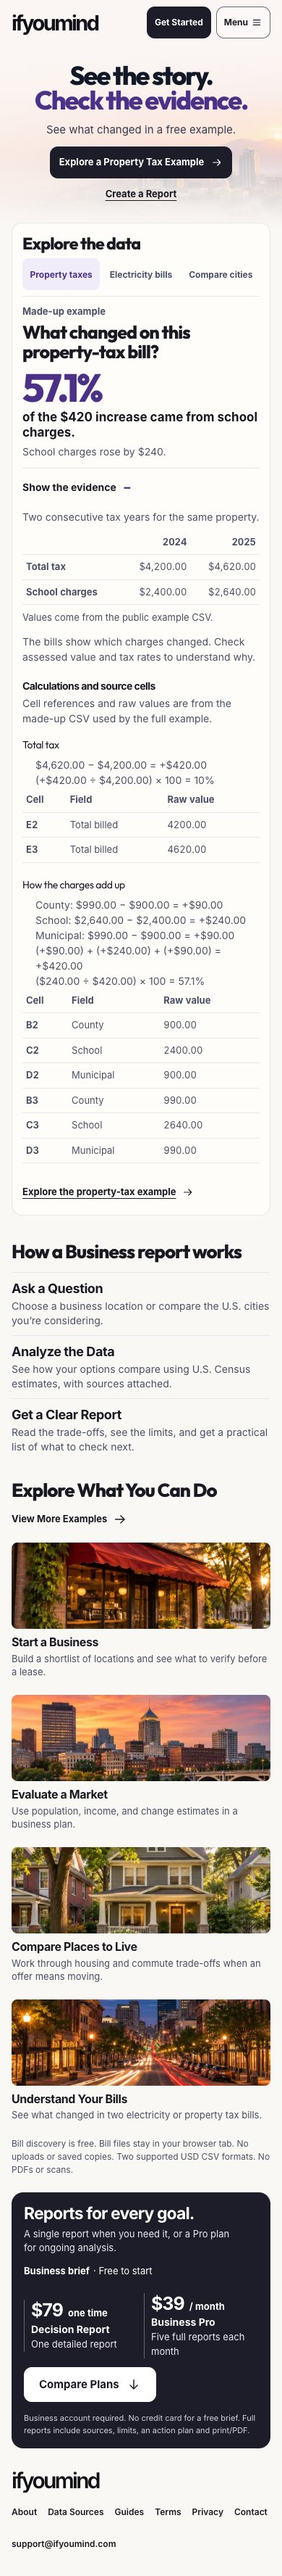
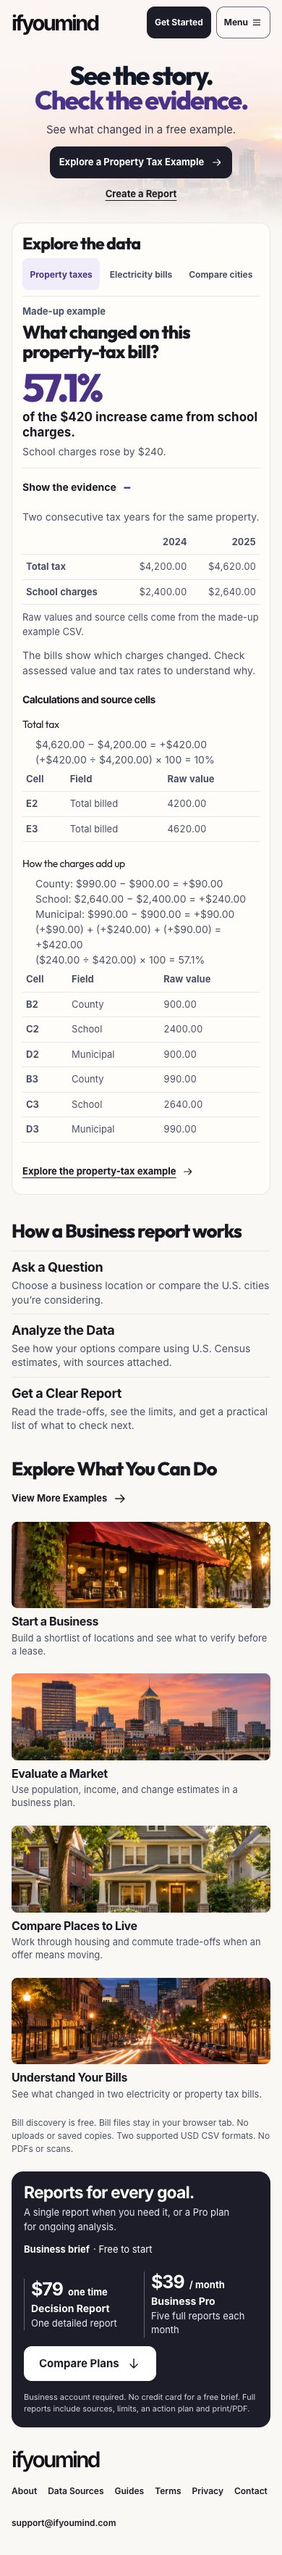
Keep one action in the default tax preview

diff --git a/src/app/intelligence/public-landing.component.html b/src/app/intelligence/public-landing.component.html
@@ -99,9 +99,9 @@
               </table>
               <p id="data-sources" class="source-note">
                 @if (example.id === 'cities') {
-                  <a href="https://www.census.gov/data/developers/data-sets/acs-5year.html">U.S. Census ACS</a> city-level estimates, 2020–2024. Population change compares 2015–2019 with 2020–2024. Differences may fall within survey margins of error.
+                  <a href="https://www.census.gov/data/developers/data-sets/acs-5year.html">U.S. Census ACS</a> city-level estimates, 2020–2024. Population change compares 2015–2019 with 2020–2024. Differences have not been tested for statistical significance and may fall within survey margins of error.
                 } @else {
-                  Values come from the public example CSV.
+                  Raw values and source cells come from the made-up example CSV.
                 }
               </p>
             </div>
@@ -113,14 +113,12 @@
                 <li>Median household income: $93,658 − $82,068 = $11,590.</li>
                 <li>Population change: 5.4% − 3.0% = 2.4 percentage points.</li>
               </ul>
-              <p>Population change compares two ACS five-year estimates, 2015–2019 and 2020–2024. The displayed differences have not been tested for statistical significance.</p>
               <div class="evidence-links">
                 <a href="https://api.census.gov/data/2024/acs/acs5/groups/B01003.html">Population table (B01003)</a>
                 <a href="https://api.census.gov/data/2024/acs/acs5/groups/B19013.html">Income table (B19013)</a>
               </div>
             } @else {
               <h3>Calculations and source cells</h3>
-              <p>Cell references and raw values are from the made-up CSV used by the full example.</p>
               <div class="evidence-groups">
                 @for (group of example.proof; track group.label) {
                   <div>
@@ -146,7 +144,7 @@
         @if (example.id === 'cities') {
           <a routerLink="/sample-report" class="text-link example-link">{{ example.action }} <svg class="icon" aria-hidden="true"><use href="/images/home/icons.svg#arrow"/></svg></a>
         } @else {
-          <a [href]="'/discover/?example=' + example.id" class="text-link example-link">{{ example.action }} <svg class="icon" aria-hidden="true"><use href="/images/home/icons.svg#arrow"/></svg></a>
+          <a [href]="'/discover/?example=' + example.id" class="text-link example-link" [class.tax-example-link]="example.id === 'tax'">{{ example.action }} <svg class="icon" aria-hidden="true"><use href="/images/home/icons.svg#arrow"/></svg></a>
         }
       </div>
     </section>

diff --git a/src/app/intelligence/public-landing-discovery.component.scss b/src/app/intelligence/public-landing-discovery.component.scss
@@ -93,6 +93,7 @@
 .home-evidence[open] summary span::before { content: '−'; }
 .home-evidence[open] { grid-column: 1 / -1; }
 .home-evidence[open] + .example-link { justify-self: start; }
+.home-evidence:not([open]) + .tax-example-link { display: none; }
 .example-link { text-decoration: underline; text-underline-offset: 4px; }
 .example-link .icon { width: 16px; height: 16px; }
 

diff --git a/docs/design/wow-2-1-20261112/REVIEW.md b/docs/design/wow-2-1-20261112/REVIEW.md
@@ -8,7 +8,7 @@ The live #88 homepage introduced three icon cards, an always-visible comparison 
 
 The founder selected tday for its centered, confident headline, compact explanation, one prominent action and a single framed product demonstration. Wow 2.1 applies that hierarchy using ifYouMind’s existing Outfit and Inter fonts, its skyline, and a muted plum display accent. The supporting sections keep the existing imagery and useful links with lighter spacing and fewer nested surfaces. [Visual reference](https://tday.com/)
 
-The first CTA opens the free property-tax example at `/discover/?example=tax`. The homepage preview answers one question immediately. School charges accounted for **57.1% of a $420 increase** and rose by **$240** in the made-up example. The comparison table, original source cells, calculation and limits open together. Switching examples closes the previous evidence and announces the new finding. Electricity and cities keep their own full-example destinations. The city preview keeps the Census snapshot, ACS periods and uncertainty in its evidence.
+The hero CTA opens the free property-tax example at `/discover/?example=tax`. The default preview shows one action, **Show the evidence**, and offers the full example after the calculation. The homepage preview answers one question immediately. School charges accounted for **57.1% of a $420 increase** and rose by **$240** in the made-up example. The comparison table, original source cells, calculation and limits open together. Switching examples closes the previous evidence and announces the new finding. Electricity and cities keep their own full-example destinations. The city preview keeps the Census snapshot, ACS periods and uncertainty in its evidence.
 
 The report CTA retains the existing sign-in return path. The Business sample, registration and $79 report and $39/month Pro entry points remain available. The free bill experience retains its browser-local CSV handling. The diff covers homepage presentation, browser tests and review evidence. No tracking was added.
 
@@ -32,7 +32,7 @@ Positions refer to the top of the initial takeaway block, which featured cities 
 
 ## Verification and release
 
-Run `npm run build`, `npm run test:seo`, `npm --prefix functions test`, `npm run test:discover` and the authenticated QA workflow. The browser specs cover all six widths, three findings and sources, evidence reset, keyboard selection, visible focus, reduced motion, forced colors, text spacing, target size, image-load stability, and automated WCAG A/AA checks. Navigation covers the free example, the sample and the commercial links, including registration and the sign-in return paths. Draft PR checks carry the exact-head CI results. Whole-repo lint and legacy Angular/Karma compilation issues also reproduce on the master baseline. Scoped landing lint passes.
+Run `npm run build`, `npm run test:seo`, `npm --prefix functions test`, `npm run test:discover` and the authenticated QA workflow. The browser specs cover all six widths, three findings and sources, evidence reset, keyboard selection, visible focus, reduced motion, forced colors, text spacing, target size, image-load stability, and automated WCAG A/AA checks. A separate rendered-pixel check across the six viewports found a minimum 7.60:1 contrast for the plum headline against the skyline, and 8.59:1 for the smaller hero copy. Navigation covers the free example, the sample and the commercial links, including registration and the sign-in return paths. Draft PR checks carry the exact-head CI results. Whole-repo lint and legacy Angular/Karma compilation issues also reproduce on the master baseline. Scoped landing lint passes.
 
 The production baseline is [PR #88](https://github.com/alwat83/ifyoumind/pull/88), master `449f829f733553c4c8afbf6c0748d82566b0048e`, with [successful Firebase deployment](https://github.com/alwat83/ifyoumind/actions/runs/43283684085) and the read-only public captures above. Wow 2.1 remains a draft until the founder reviews the primary CTA and explicitly authorizes release. If approved later, retain the current Hosting version and do a read-only smoke of homepage, tax CTA, switches, sample and guarded report links. A Hosting rollback would require a separate authorization. Physical devices, spoken screen readers, comprehension and conversion have separate verification needs.
 

diff --git a/docs/agent-handoff/DEVELOPMENT_LOG.md b/docs/agent-handoff/DEVELOPMENT_LOG.md
@@ -509,6 +509,6 @@ Exact final commit/PR and independently executed CI status recorded in GitHub/co
 ## 2026-11-12 — Wow 2.1 property-tax-first homepage
 
 - OpenAI / Codex. [Issue #89](https://github.com/alwat83/ifyoumind/issues/89). Branch `codex/wow-2-1-property-tax-20261112` from master `449f829f733553c4c8afbf6c0748d82566b0048e`. Founder selected tday during implementation. Applied its editorial hierarchy with existing ifYouMind artwork and type.
-- Updated the Angular public landing template, scoped SCSS, homepage example presentation and browser coverage. The free tax CTA goes directly to the existing synthetic example, the page leads with the 57.1% finding, and a native disclosure preserves calculations and provenance. No dependencies or backend source changed.
+- Updated the Angular public landing template, scoped SCSS, homepage example presentation and browser coverage. The free tax CTA goes directly to the existing synthetic example, the page leads with the 57.1% finding, and a native disclosure preserves calculations and provenance. Following the founder’s final simplification direction, the default preview places the repeated full-example link after the evidence and removes duplicated source wording. No dependencies or backend source changed.
 - [Screenshot comparisons, commands and QA scope](../design/wow-2-1-20261112/REVIEW.md). GitHub draft PR checks carry exact-head results. Updated the current snapshot, master record and growth plan. Notion coordination uses the existing Wow 2.1 section.
 - #88 is the verified production baseline. Wow 2.1 awaits the founder's visual and release decision. Next validate comprehension with the supplied script and measure flagship progression only through approved existing reporting.
